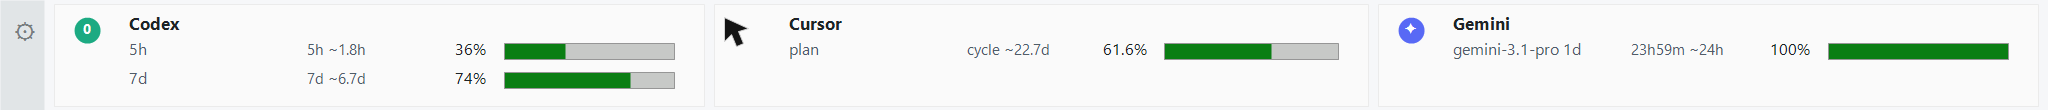
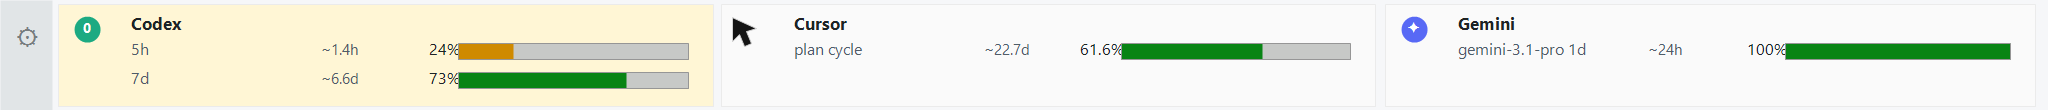
Show reset countdown only in quota rows

diff --git a/docs/PRODUCT_DESIGN.md b/docs/PRODUCT_DESIGN.md
@@ -6,12 +6,12 @@ LimitDock is a working status bar, not a dashboard. Its purpose is to keep quota
 
 - Show quota only. Do not show spend, token totals, request counts, tool-call rates, or generic activity.
 - Preserve exhausted rows. A 0 percent model is meaningful and must remain visible unless the user hides it.
-- Prefer model plus window plus reset text over generic labels. A row should make it clear what model or plan bucket is being metered and when it resets.
+- Prefer model plus window in the row label, with reset countdown in its own column. A row should make it clear what model or plan bucket is being metered and when it resets without repeating the window twice.
 - Keep local state local. `settings.json` is personal and ignored; `settings.example.json` is the shareable default.
 
 ## Ribbon Density
 
-Top and bottom edges use a compact ribbon around 88 to 96 WinForms logical pixels tall, clamped by the current monitor work area so different screens keep a similar footprint. Provider cards are compact chips but wide enough for two full-width quota rows. Quota rows are capped to a 2 by 2 grid per card. Two visible rows use one full-width row each; three or four rows switch to a two-column grid. Model labels truncate before window, reset, or percent labels can disappear. Extra rows remain available through the double-click row picker.
+Top and bottom edges use a compact ribbon around 88 to 96 WinForms logical pixels tall, clamped by the current monitor work area so different screens keep a similar footprint. Provider cards are compact chips but wide enough for two full-width quota rows. Quota rows are capped to a 2 by 2 grid per card. Two visible rows use one full-width row each; three or four rows switch to a two-column grid. Model labels keep the metering window when available, while the separate timing column shows reset countdown only. Extra rows remain available through the double-click row picker.
 
 Left and right edges use a narrow vertical strip whose width is also clamped by the monitor work area. Cards stack vertically, and quota rows use one full-width row per model/window. Model labels are deliberately truncated before reset and percent are allowed to disappear.
 

diff --git a/README.md b/README.md
@@ -8,7 +8,7 @@ LimitDock is not a replacement for OpenUsage.sh. Provider discovery, telemetry, 
 
 ## What It Shows
 
-- Remaining quota only, grouped by provider, model or plan bucket, metering window, reset countdown, and percent.
+- Remaining quota only, grouped by provider, model or plan bucket, reset countdown, and percent.
 - Codex rate-limit rows, including Spark labels exposed by OpenUsage attributes.
 - Cursor plan-cycle quota from `plan_percent_used` with `billing_cycle_end` reset text.
 - Gemini model-specific quota rows, while suppressing aggregate duplicates when precise model rows exist.
@@ -20,7 +20,7 @@ LimitDock intentionally does not show spend, token totals, request counts, tool-
 
 ### Ribbon Mode
 
-Use `bottom` or `top` for a horizontal ribbon. Each provider card shows one or more quota rows. When two rows are visible, they use two full-width lines; three or four rows use a compact grid. Long model names are shortened before reset time or remaining percent disappear.
+Use `bottom` or `top` for a horizontal ribbon. Each provider card shows one or more quota rows. Row labels keep the model or plan bucket, including the metering window when OpenUsage exposes it; the timing column shows only the reset countdown. When two rows are visible, they use two full-width lines; three or four rows use a compact grid. Long labels are shortened before reset time or remaining percent disappear.
 
 ![LimitDock top or bottom ribbon](docs/images/manual-ribbon.png)
 

diff --git a/docs/USER_MANUAL.md b/docs/USER_MANUAL.md
@@ -25,9 +25,8 @@ LimitDock starts the bundled or downloaded OpenUsage.sh daemon, reads the local 
 The ribbon is best for wide monitors. Each provider card shows:
 
 - provider name and icon
-- model or plan bucket
-- metering window
-- reset countdown
+- model or plan bucket, including the metering window when available
+- reset countdown only in the timing column
 - remaining percent
 - compact gauge
 
@@ -45,7 +44,7 @@ Checked rows are visible. Unchecked rows are hidden. Hidden rows stay in `settin
 
 ![Left or right dock](images/manual-side-dock.png)
 
-Side docking is useful when a horizontal ribbon would take too much vertical space. Provider cards stack vertically, and each quota row gets its own line. Model labels are shortened before reset time or remaining percent are hidden.
+Side docking is useful when a horizontal ribbon would take too much vertical space. Provider cards stack vertically, and each quota row gets its own line. Model labels are shortened before reset countdown or remaining percent are hidden.
 
 ## Tray Controls
 
